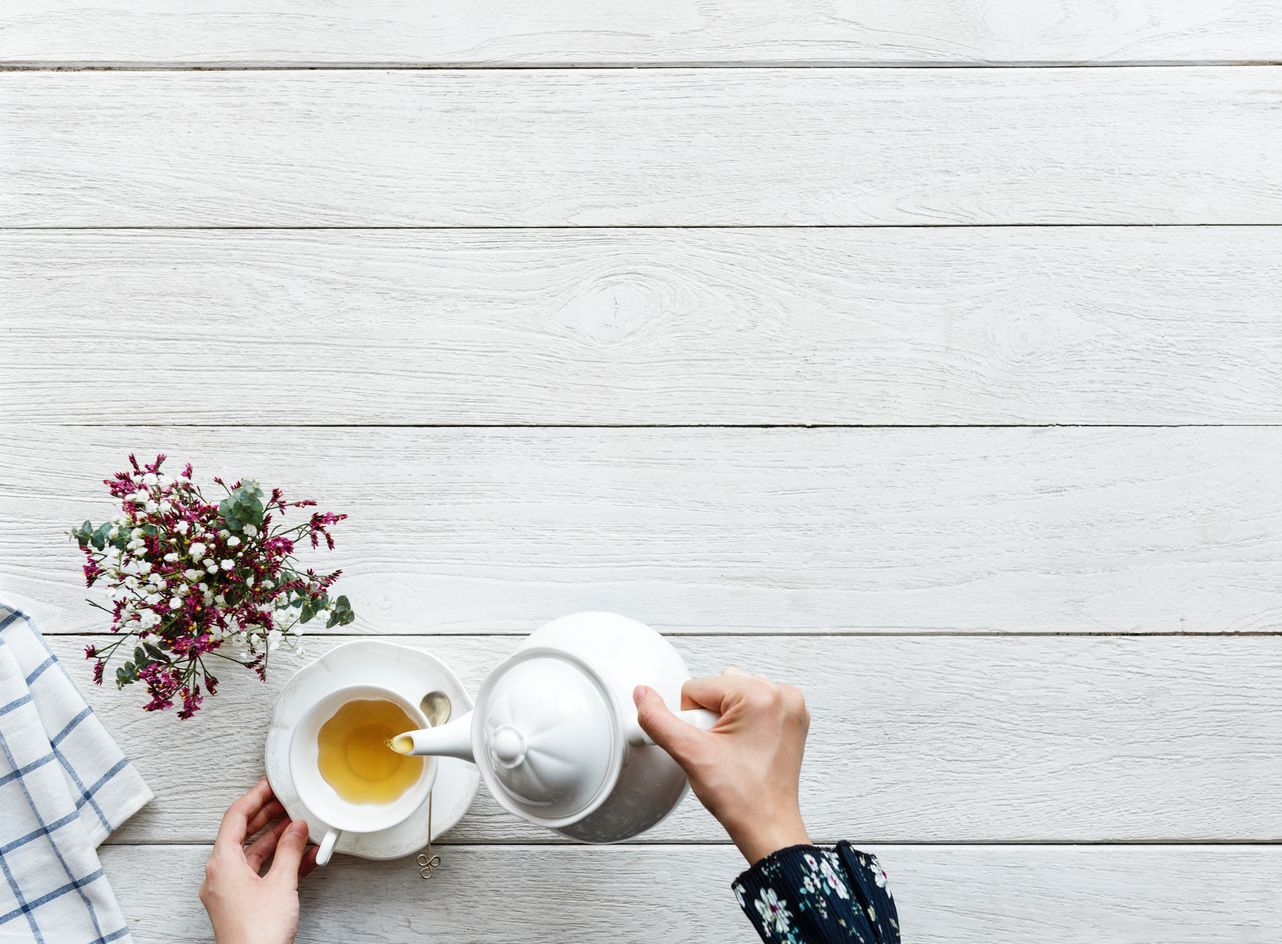
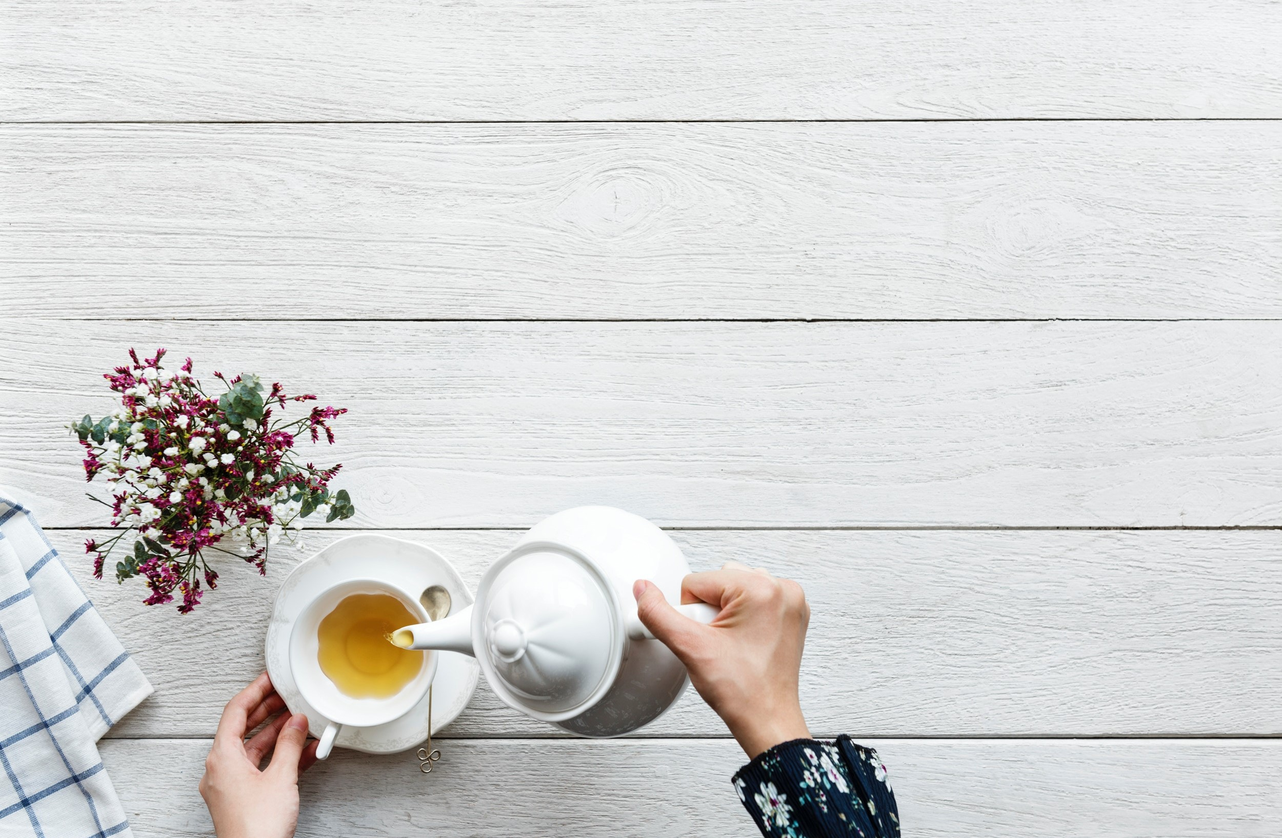
added background image

diff --git a/styles.css b/styles.css
@@ -7,8 +7,9 @@
 }
 
 .title{ 
-    padding:50px"
-    font-weight:10;
+    padding:100px"
+    font-weight:200;
+    letter-spacing: 10;
 }
 
 div{
@@ -25,6 +26,6 @@ sections{
 
 .hero{
    background-image: url(./images/tea.jpg);
-    background-size: cover;
-    background-position: center;
+   background-size: cover;
+   background-position: center;
 }
